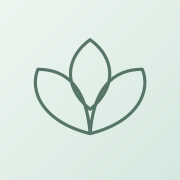
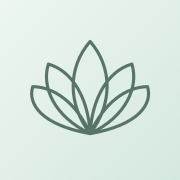
Match ritual setup styling and add five-petal lotus

Changed region(s): [[0.1667, 0.1944, 0.8333, 0.75]]

diff --git a/index.html b/index.html
@@ -4,8 +4,8 @@
 <meta name="viewport" content="width=device-width, initial-scale=1">
 <meta name="theme-color" content="#f5f7f6">
 <title>FIVE</title>
-<link rel="apple-touch-icon" sizes="180x180" href="./apple-touch-icon.png">
-<link rel="icon" type="image/svg+xml" href="./lotus.svg">
+<link rel="apple-touch-icon" sizes="180x180" href="./apple-touch-icon.png?v=2">
+<link rel="icon" type="image/svg+xml" href="./lotus.svg?v=2">
 <style>
 *{box-sizing:border-box}
 :root{color-scheme:light;--ink:#192a27;--muted:#52635d;--gradient:linear-gradient(90deg,#a2d7c4,#87bfdc 55%,#b7ade9)}
@@ -45,11 +45,15 @@ button:focus-visible{outline:2px solid #214b40;outline-offset:3px}
 #ritual.leave{animation:dissolve 1.5s ease both;pointer-events:none}
 h2{font-size:clamp(42px,10vw,64px);line-height:1;letter-spacing:-.065em;margin:0 0 26px}
 @media(prefers-reduced-motion:reduce){#end.reveal,#ritual.leave{animation:none}}
-#setup{max-width:380px;margin:auto;padding:24px;border-radius:24px;background:#fff;box-shadow:0 4px 12px #39433118}
-#setup h2{font-size:28px;letter-spacing:-.035em;margin:0 0 18px}
-#setup label{display:grid;gap:6px;margin-bottom:12px;color:#304c41}
-#setup input{width:100%;min-height:44px;border:1px solid #bacfc5;border-radius:10px;padding:8px 12px;font:inherit}
-#setup button{margin-top:8px}
+#views{display:grid}
+#views > *{grid-area:1/1;min-width:0}
+#setup{width:min(100%,380px);align-self:start;margin:0 auto;padding:clamp(18px,5vw,28px);border:1px solid #dedfd7;border-radius:28px;background:linear-gradient(165deg,#faf9f4,#fff 78%);box-shadow:inset 0 2px 3px #fff,0 3px 0 #d6d9ce,0 10px 22px #39433120}
+#setup h2{text-align:center;font-size:28px;letter-spacing:-.035em;margin:0 0 22px;color:#304c41}
+#setup label{display:grid;gap:6px;margin-bottom:12px;color:#304c41;font-size:13px;font-weight:600}
+#setup input{box-sizing:border-box;width:100%;min-height:44px;border:1px solid #dedfd7;border-radius:13px;padding:8px 12px;font:400 16px system-ui,sans-serif;color:var(--ink);background:linear-gradient(#f3f3ed,#fff);box-shadow:inset 0 2px 4px #39433114}
+#setup input:focus-visible{outline:2px solid #68786d;outline-offset:2px}
+#setup-actions{display:flex;justify-content:center;gap:12px;margin-top:20px}
+#names{padding-top:12px;border-top:1px solid #e7ebe5}
 #actions{display:flex;justify-content:center;gap:12px;margin-top:24px}
 #actions button{margin:0}
 #face,.outgoing{max-width:76%;overflow-wrap:anywhere}
@@ -58,16 +62,17 @@ h2{font-size:clamp(42px,10vw,64px);line-height:1;letter-spacing:-.065em;margin:0
 </style>
 <main>
 <header>
-<svg viewBox="0 0 76 64" fill="none" aria-hidden="true"><path d="M38 59C10 52 3 34 8 22c17 0 28 11 30 37Zm0 0c28-7 35-25 30-37-17 0-28 11-30 37Zm0-14C22 32 24 15 38 5c14 10 16 27 0 40Z" stroke="#6d886e" stroke-width="1.4"/></svg>
+<svg viewBox="0 0 76 64" fill="none" aria-hidden="true"><path d="M38 59C10 54 2 42 5 32c12 0 25 9 33 27Zm0 0c28-5 36-17 33-27-12 0-25 9-33 27Zm0 0C17 49 10 32 14 19c14 4 23 20 24 40Zm0 0c21-10 28-27 24-40-14 4-23 20-24 40Zm0 0C25 42 25 21 38 6c13 15 13 36 0 53Z" stroke="#6d886e" stroke-width="1.4"/></svg>
 <p class="eyebrow">A daily ritual</p>
 <h1>FIVE</h1>
 </header>
+<div id="views">
 <form id="setup" hidden>
 <h2>Set up your ritual</h2>
 <label>Number of steps <input id="count" type="number" min="1" max="20" required></label>
 <div id="names"></div>
-<button type="submit">Begin</button>
-<button id="cancel" type="button" hidden>Cancel</button>
+<div id="setup-actions"><button type="submit">Begin</button>
+<button id="cancel" type="button" hidden>Cancel</button></div>
 </form>
 <div id="session" hidden>
 <div id="stage">
@@ -86,6 +91,7 @@ h2{font-size:clamp(42px,10vw,64px);line-height:1;letter-spacing:-.065em;margin:0
 <section id="end" hidden><h2 tabindex="-1">thank you.</h2><button id="reset">Begin again</button></section>
 </div>
 <div id="actions"><button id="clear" type="button">Reset</button><button id="edit" type="button">Edit ritual</button></div>
+</div>
 </div>
 </main>
 <script>
@@ -164,7 +170,7 @@ function render() {
     } else {
       ritual.classList.remove('running');
     }
-    if (advanced && !session.hidden) end.querySelector('h2').focus();
+    if (advanced && !session.hidden && !session.inert) end.querySelector('h2').focus();
     return;
   }
   const running = deadline > 0;
@@ -192,7 +198,7 @@ ritual.addEventListener('animationend', event => {
     ritual.classList.remove('leave', 'running');
   }
 });
-function reset() {
+function reset(animateEntrance = true) {
   ritual.classList.remove('leave', 'running');
   end.classList.remove('reveal');
   completed = deadline = 0;
@@ -200,7 +206,8 @@ function reset() {
   face.classList.remove('enter');
   save();
   render();
-  replay(ritual, 'arrive');
+  if (animateEntrance) replay(ritual, 'arrive');
+  else ritual.classList.remove('arrive');
   start.focus();
 }
 clear.addEventListener('click', reset);
@@ -222,14 +229,35 @@ function renderNames() {
     names.append(caption);
   }
 }
+let viewAnimations = [];
+function showView(incoming, outgoing) {
+  const outgoingWasVisible = !outgoing.hidden;
+  const incomingOpacity = incoming.hidden ? 0 : Number(getComputedStyle(incoming).opacity);
+  const outgoingOpacity = outgoingWasVisible ? Number(getComputedStyle(outgoing).opacity) : 0;
+  viewAnimations.forEach(animation => animation.cancel());
+  viewAnimations = [];
+  incoming.hidden = false;
+  incoming.inert = false;
+  outgoing.inert = true;
+  if (matchMedia('(prefers-reduced-motion: reduce)').matches) {
+    outgoing.hidden = true;
+    return;
+  }
+  const timing = { duration: 1500, easing: 'ease' };
+  viewAnimations.push(incoming.animate([{ opacity: incomingOpacity }, { opacity: 1 }], timing));
+  if (outgoingWasVisible) {
+    const fade = outgoing.animate([{ opacity: outgoingOpacity }, { opacity: 0 }], timing);
+    viewAnimations.push(fade);
+    fade.onfinish = () => { outgoing.hidden = true; };
+  }
+}
 function openSetup() {
   draft = [...labels];
   names.replaceChildren();
   count.value = labels.length;
   renderNames();
   cancel.hidden = !configured;
-  setup.hidden = false;
-  session.hidden = true;
+  showView(setup, session);
 }
 count.addEventListener('input', renderNames);
 document.querySelector('#edit').addEventListener('click', () => {
@@ -237,17 +265,15 @@ document.querySelector('#edit').addEventListener('click', () => {
   count.focus();
 });
 cancel.addEventListener('click', () => {
-  setup.hidden = true;
-  session.hidden = false;
+  showView(session, setup);
   document.querySelector('#edit').focus();
 });
 setup.addEventListener('submit', event => {
   event.preventDefault();
   labels = Array.from(names.querySelectorAll('input'), input => input.value.trim());
   configured = true;
-  setup.hidden = true;
-  session.hidden = false;
-  reset();
+  showView(session, setup);
+  reset(false);
 });
 if (configured) {
   session.hidden = false;
